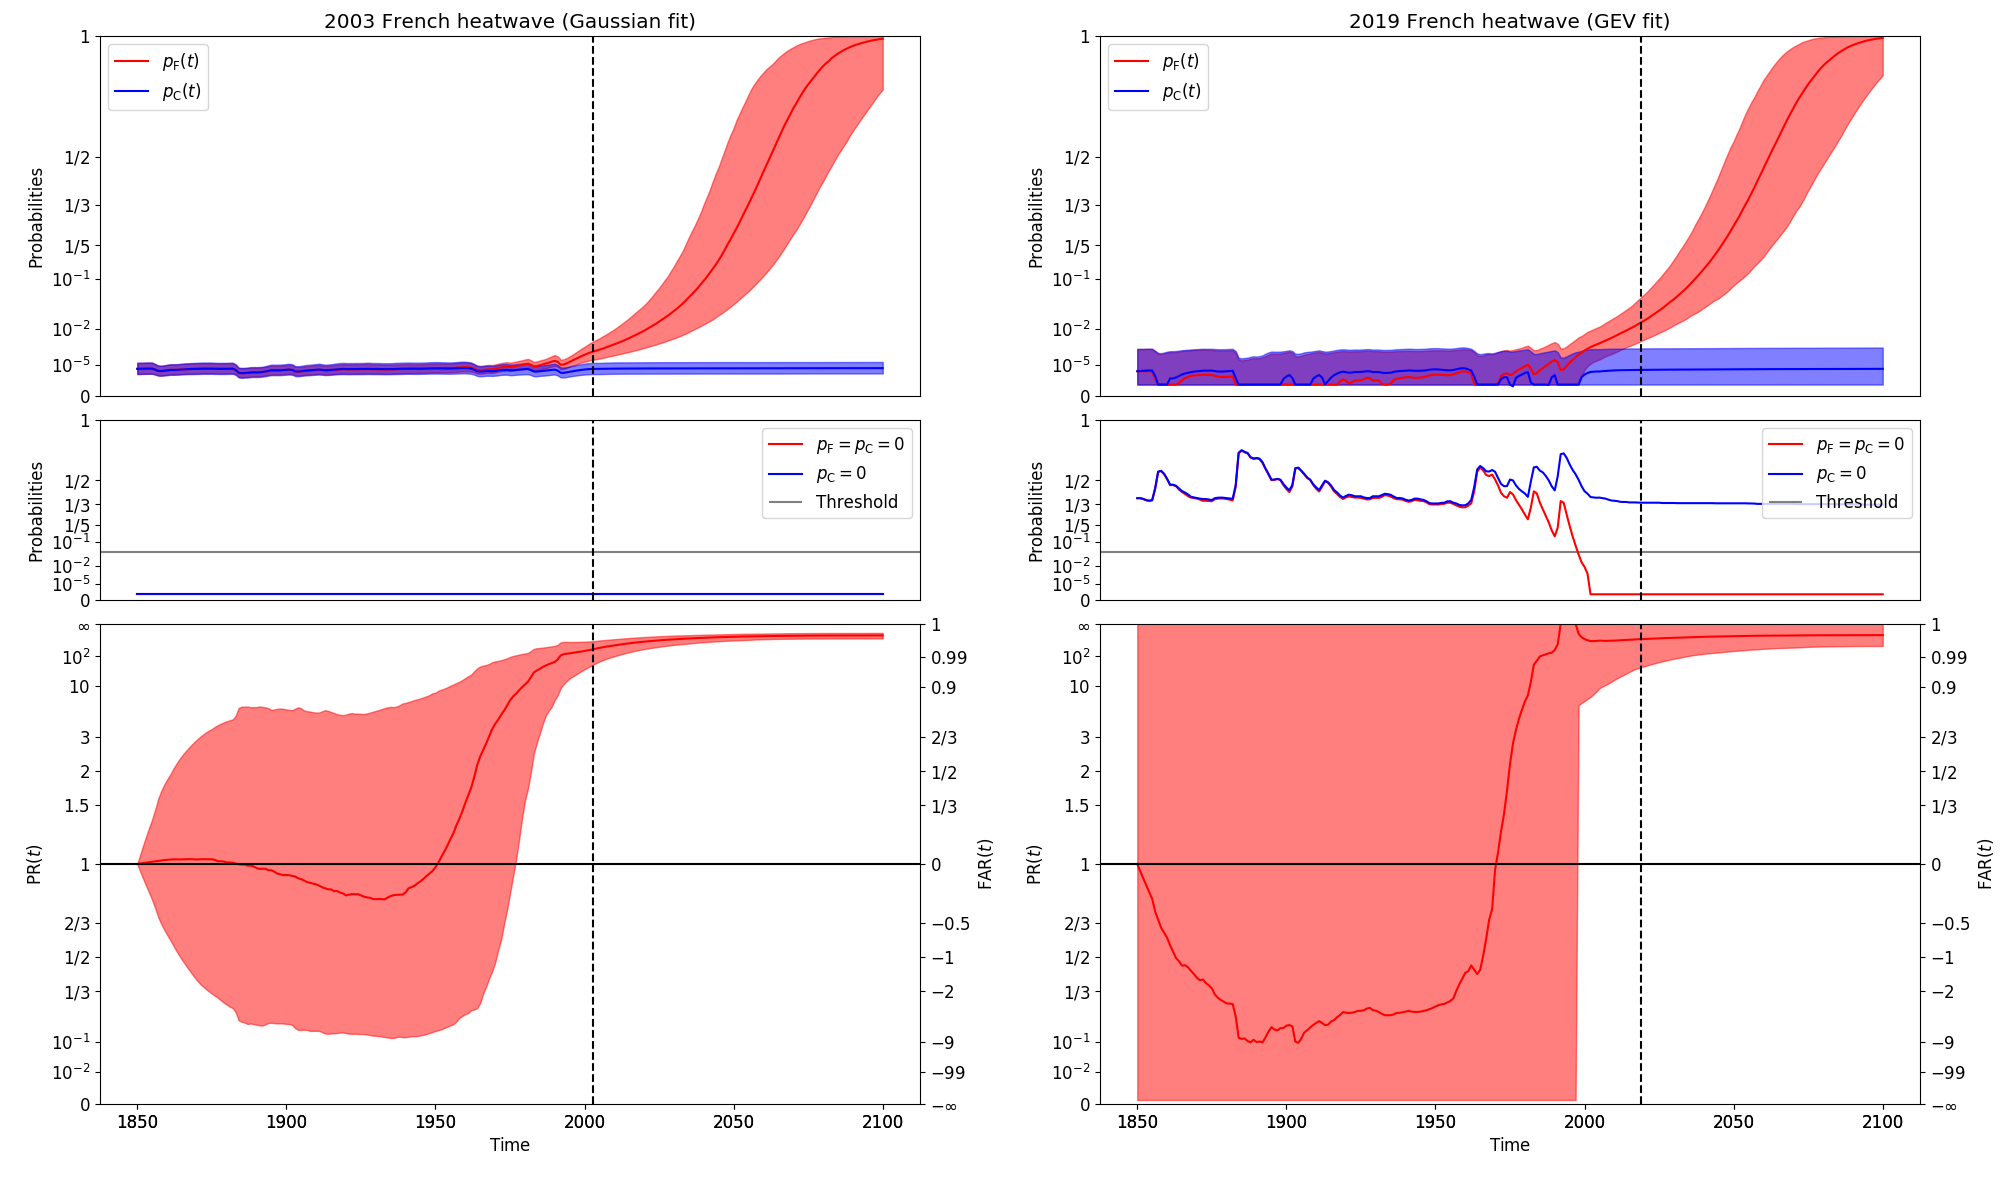
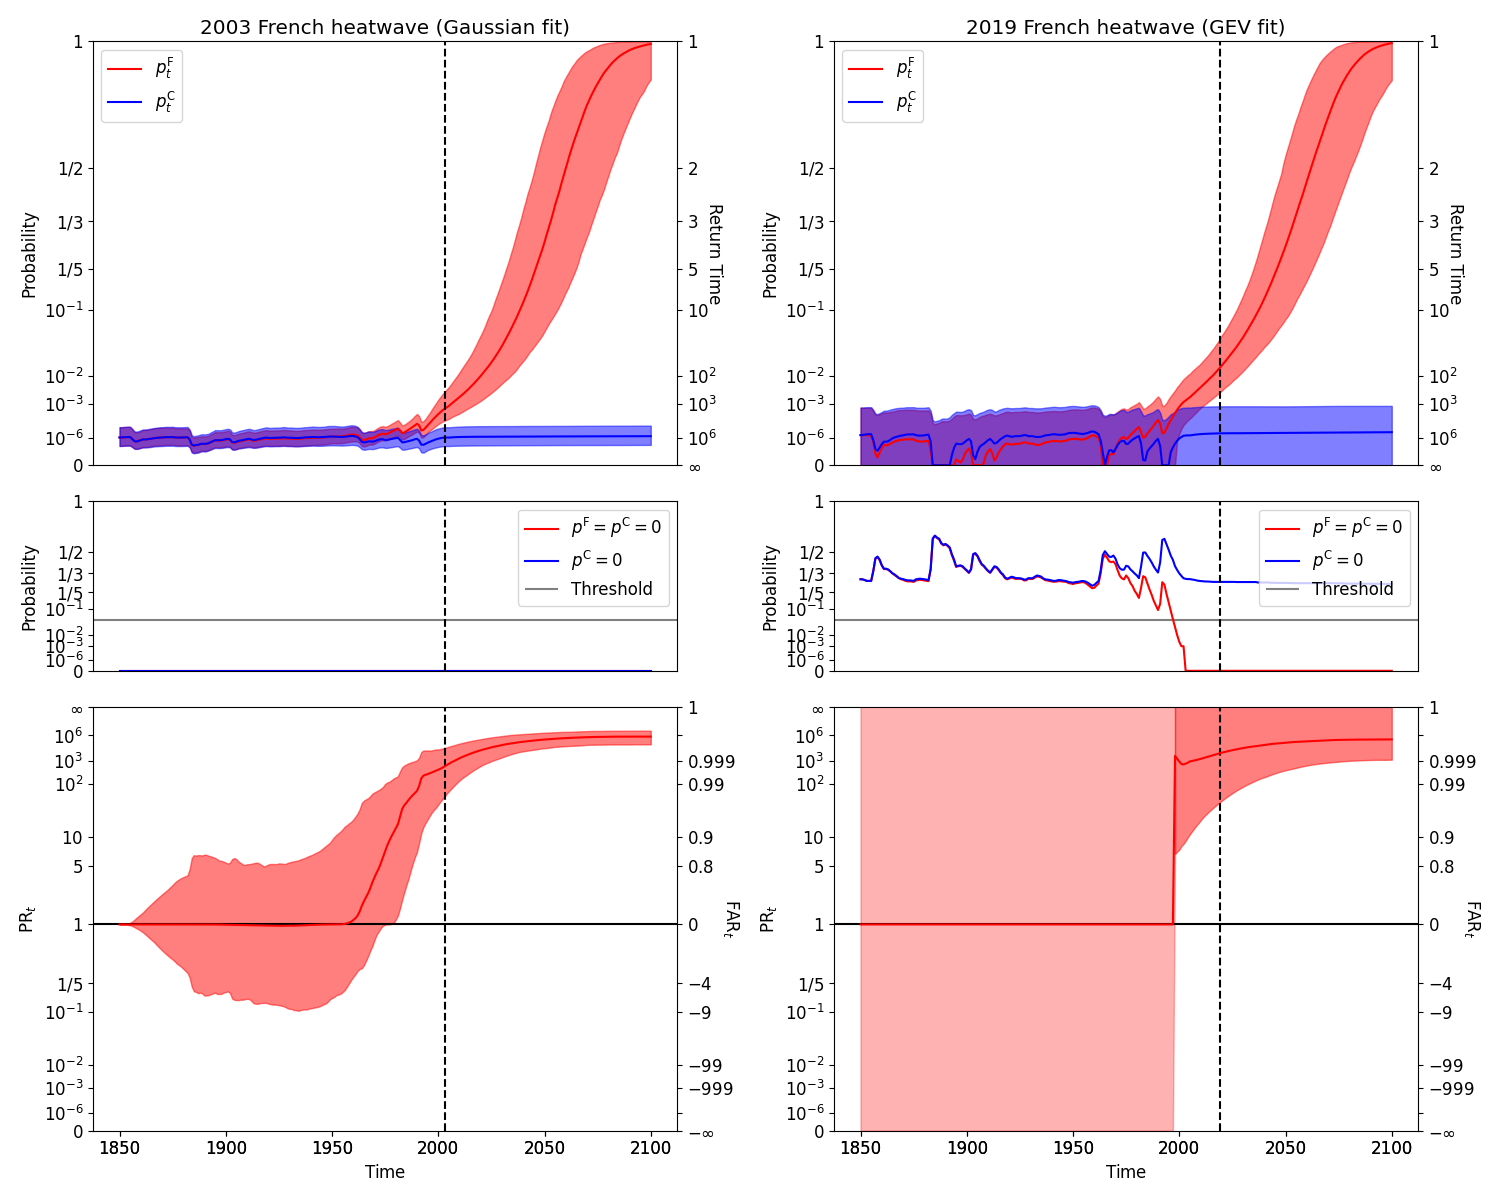
Update figures

diff --git a/figures/Probabilities.py b/figures/Probabilities.py
@@ -93,17 +93,15 @@ import sys,os
 import pickle as pk
 import matplotlib as mpl
 import matplotlib.pyplot as plt
+import matplotlib.gridspec as mplgrid
 
 import numpy as np
 import pandas as pd
 import xarray as xr
 
-import SDFC.tools as sdt
 import NSSEA as ns
 import NSSEA.models as nsm
-from NSSEA.plot.__linkParams import LinkParams
-
-mpl.use("Qt5Agg")
+import NSSEA.plot as nsp
 
 
 ####################
@@ -122,6 +120,28 @@ mpl.rcParams['font.size'] = 12
 ####################
 ## Plot functions ##
 ####################
+
+def split_into_valid_time( nan_values , ci ):##{{{
+	time_valid    = []
+	time_notvalid = []
+	t = int(nan_values.time[0])
+	on_valid      = bool(nan_values.loc[t] < ci)
+	curr = [t]
+	
+	for t in nan_values.time[1:]:
+		curr.append(int(t))
+		is_valid = bool(nan_values.loc[t] < ci)
+		if not is_valid == on_valid:
+			if on_valid: time_valid.append(curr)
+			else: time_notvalid.append(curr)
+			on_valid = not on_valid
+			curr = [int(t)]
+	if on_valid: time_valid.append(curr)
+	else: time_notvalid.append(curr)
+	
+	return time_valid,time_notvalid
+##}}}
+
 
 #############
 ## Classes ##
@@ -148,32 +168,25 @@ if __name__ == "__main__":
 	
 	## Load output
 	##============
-	climN,eventN = ns.from_netcdf( os.path.join( pathInp , "Normal" , "HW03_Normal_climCXCB.nc"   ) , nsm.Normal() )
-	climG,eventG = ns.from_netcdf( os.path.join( pathInp , "GEV"    , "HW19D3_GEV_climCXCB.nc"   ) , nsm.GEV() )
+	climN = ns.Climatology.from_netcdf( os.path.join( pathInp , "Normal" , "HW03_climCXCB.nc" ) , nsm.Normal() )
+	climG = ns.Climatology.from_netcdf( os.path.join( pathInp , "GEV"    , "HW19_climCXCB.nc" ) , nsm.GEV() )
 	
 	
 	## Plot itself
 	##============
 	
-	lp = LinkParams()
 	
-	nrow,ncol = 3,1
-	fs = 10
-	fig = plt.figure( figsize = ( 2 * fs * ncol , 0.4 * fs * nrow ) )
-	
-	axes = [ [ [0.05,0.67,0.41,0.3],
-	           [0.05,0.50,0.41,0.15],
-               [0.05,0.08,0.41,0.4] ],
-	         [ [0.55,0.67,0.41,0.3],
-	           [0.55,0.50,0.41,0.15],
-               [0.55,0.08,0.41,0.4] ]
-            ]
+	fs,nrow,ncol = 10,3,2
+	fig = plt.figure( figsize = ( fs * 1.5 , 0.4 * fs * nrow ) )
+	grid = mplgrid.GridSpec( nrows = nrow , ncols = ncol , height_ratios = [1,0.4,1] )
 	
 	title = ["2003 French heatwave (Gaussian fit)","2019 French heatwave (GEV fit)"]
+	lPR = nsp.LinkPR()
+	lp  = nsp.Linkp()
 	
-	for i,clim,event in zip(range(2),[climN,climG],[eventN,eventG]):
-		
-		stats  = clim.stats[:,:,:3,:]
+	for i,clim in zip(range(2),[climN,climG]):
+		stats = clim.statistics
+		event = clim.event
 		
 		## Find impossible values
 		##=======================
@@ -181,76 +194,96 @@ if __name__ == "__main__":
 		nan_values = nan_idx.sum( dim = "sample" ) / ( stats.sample.size - 1 )
 		imp_values = ( stats[:,1:,:,:].loc[:,:,"pC",:] == 0 ).sum( dim = "sample" ) / ( stats.sample.size - 1 )
 		
-		
 		## Find quantiles
 		##===============
-		qstats = stats[:,1:,:,:].quantile( [ci / 2 , 1 - ci / 2 , 0.4999 ] , dim = "sample" ).assign_coords( quantile = [ "ql" , "qu" , "be" ] )
-		if not be_is_median: qstats.loc["be",:,:,:] = stats[:,0,:,:]
+		qstats = stats[:,1:,:,:].quantile( [ci / 2 , 1 - ci / 2 , 0.5 ] , dim = "sample" ).assign_coords( quantile = [ "ql" , "qu" , "BE" ] )
+		if not clim.BE_is_median:
+			qstats.loc["BE",:,:,:] = stats[:,0,:,:]
 		
 		## Special case : PR
 		##==================
 		qstats.loc["qu",:,"PR",:] = qstats.loc["qu",:,"PR",:].where( nan_values < ci , np.inf )
 		qstats.loc["ql",:,"PR",:] = qstats.loc["ql",:,"PR",:].where( nan_values < ci , 0      )
+		if clim.BE_is_median:
+			qstats.loc["BE",:,"PR",:] = qstats.loc["BE",:,"PR",:].where( nan_values < ci , 1 )
 		
-		## Plot itself
-		##============
+		## Split into continuous time period
+		##==================================
+		time_validity = {}
+		for m in clim.model:
+			time_validity[m] = split_into_valid_time( nan_values.loc[:,m] , ci )
 		
+		time_valid,time_notvalid = time_validity[m]
 		
-		m = "multi"
-		ax = fig.add_axes( axes[i][0] )
-		ax.plot( stats.time , lp.fp(qstats.loc["be",:,"pF",m]) , color = "red"  , linestyle = "-" , marker = "" , label = r"$p_\mathrm{F}(t)$" )
-		ax.plot( stats.time , lp.fp(qstats.loc["be",:,"pC",m]) , color = "blue" , linestyle = "-" , marker = "" , label = r"$p_\mathrm{C}(t)$" )
-		ax.fill_between( stats.time , lp.fp(qstats.loc["ql",:,"pF",m]) , lp.fp(qstats.loc["qu",:,"pF",m]) , color = "red" , alpha = 0.5 )
-		ax.fill_between( stats.time , lp.fp(qstats.loc["ql",:,"pC",m]) , lp.fp(qstats.loc["qu",:,"pC",m]) , color = "blue" , alpha = 0.5 )
+		ax = fig.add_subplot(grid[0,i])
+		ax.plot( stats.time , lp.transform(qstats.loc["BE",:,"pF",m]) , color = "red"  , linestyle = "-" , marker = "" , label = r"$p^\mathrm{F}_t$" )
+		ax.plot( stats.time , lp.transform(qstats.loc["BE",:,"pC",m]) , color = "blue" , linestyle = "-" , marker = "" , label = r"$p^\mathrm{C}_t$" )
+		ax.fill_between( stats.time , lp.transform(qstats.loc["ql",:,"pF",m]) , lp.transform(qstats.loc["qu",:,"pF",m]) , color = "red"  , alpha = 0.5 )
+		ax.fill_between( stats.time , lp.transform(qstats.loc["ql",:,"pC",m]) , lp.transform(qstats.loc["qu",:,"pC",m]) , color = "blue" , alpha = 0.5 )
 		ax.legend( loc = "upper left" )
-		ax.set_ylim( (lp.p.values.min(),lp.p.values.max()) )
-		ax.set_yticks( lp.p.values )
-		ax.set_yticklabels( lp.p.names )
-		ax.set_title( title[i] )
+		ax.set_ylim( (lp.min,lp.max) )
+		ax.set_yticks( lp.ticks )
+		ax.set_yticklabels( lp.labels )
+		ax.set_title( title[i]  )
 		ax.set_xticks([])
-		ax.set_ylabel( "Probabilities" )
+		ax.set_ylabel( "Probability" )
+		
+		ax2 = fig.add_subplot( grid[0,i] , sharex = ax , frameon = False )
+		ax2.yaxis.tick_right()
+		ax2.set_yticks( lp.ticks )
+		ax2.set_yticklabels( lp.Rtlabels )
+		ax2.yaxis.set_label_position( "right" )
+		ax2.set_ylabel( "Return Time" , rotation = 270 )
+		ax2.set_ylim( (lp.min,lp.max) )
+		
 		xlim = ax.get_xlim()
 		ylim = ax.get_ylim()
 		ax.plot( [event.time,event.time] , ylim          , linestyle = "--" , marker = "" , color = "black" )
 		ax.set_xlim(xlim)
 		ax.set_ylim(ylim)
 		
-		ax = fig.add_axes( axes[i][1] )
-		ax.plot( stats.time , lp.fp(nan_values.loc[:,m]) , color = "red"  , label = r"$p_\mathrm{F}=p_\mathrm{C}=0$" )
-		ax.plot( stats.time , lp.fp(imp_values.loc[:,m]) , color = "blue" , label = r"$p_\mathrm{C}=0$" )
+		ax = fig.add_subplot(grid[1,i])
+		ax.plot( stats.time , lp.transform(nan_values.loc[:,m]) , color = "red"  , label = r"$p^\mathrm{F}=p^\mathrm{C}=0$" )
+		ax.plot( stats.time , lp.transform(imp_values.loc[:,m]) , color = "blue" , label = r"$p^\mathrm{C}=0$" )
 		ax.plot( [event.time,event.time] , ylim          , linestyle = "--" , marker = "" , color = "black" )
-		ax.set_ylim( (lp.p.values.min(),lp.p.values.max()) )
-		ax.set_yticks( lp.p.values )
-		ax.set_yticklabels( lp.p.names )
-		ax.set_ylabel( "Probabilities" )
+		ax.set_ylim( (lp.min,lp.max) )
+		ax.set_yticks( lp.ticks )
+		ax.set_yticklabels( lp.labels )
+		ax.set_ylabel( "Probability" )
 		xlim = ax.get_xlim()
-		ax.hlines( lp.fp(ci) , xlim[0] , xlim[1] , color = "grey" , label = "Threshold" )
+		ax.hlines( lp.transform(ci) , xlim[0] , xlim[1] , color = "grey" , label = "Threshold" )
 		ax.set_xlim(xlim)
 		ax.set_xticks([])
 		ax.legend( loc = "upper right" )
 		
-		ax = fig.add_axes( axes[i][2] )
-		ax.plot( stats.time , lp.frr(qstats.loc["be",:,"PR",m]) , color = "red" , linestyle = "-" , marker = "" )
-		ax.fill_between( stats.time , lp.frr(qstats.loc["ql",:,"PR",m]) , lp.frr(qstats.loc["qu",:,"PR",m]) , color = "red" , alpha = 0.5 )
-		ax.set_ylim( (lp.rr.values.min(),lp.rr.values.max()) )
-		ax.set_yticks( lp.rr.values )
-		ax.set_yticklabels( lp.rr.names )
+		ax = fig.add_subplot(grid[2,i])
+		ax.plot( stats.time , lPR.transform(qstats.loc["BE",:,"PR",m]) , color = "red" , linestyle = "-" , marker = "" )
+		for t in time_valid:
+			ax.fill_between( t , lPR.transform(qstats.loc["ql",t,"PR",m]) , lPR.transform(qstats.loc["qu",t,"PR",m]) , color = "red" , alpha = 0.5 )
+		for t in time_notvalid:
+			ax.fill_between( t , lPR.transform(qstats.loc["ql",t,"PR",m]) , lPR.transform(qstats.loc["qu",t,"PR",m]) , color = "red" , alpha = 0.3 )
+		ax.set_ylim( (lPR.min,lPR.max) )
+		ax.set_yticks( lPR.ticks )
+		ax.set_yticklabels( lPR.labels )
 		ax.set_xlabel( r"$\mathrm{Time}$" )
-		ax.set_ylabel( r"$\mathrm{PR}(t)$" )
-		ax2 = fig.add_axes( axes[i][2] , sharex = ax , frameon = False )
+		ax.set_ylabel( r"$\mathrm{PR}_t$" )
+		ax2 = fig.add_subplot( grid[2,i] , sharex = ax , frameon = False )
 		ax2.yaxis.tick_right()
-		ax2.set_yticks( lp.rr.values )
-		ax2.set_yticklabels( lp.far.names )
+		ax2.set_yticks( lPR.ticks )
+		ax2.set_yticklabels( lPR.FARlabels )
 		ax2.yaxis.set_label_position( "right" )
-		ax2.set_ylabel( r"$\mathrm{FAR}(t)$" )
+		ax2.set_ylabel( r"$\mathrm{FAR}_t$" , rotation = 270 )
 		
 		xlim = ax.get_xlim()
 		ylim = ax.get_ylim()
-		ax.plot( xlim                    , lp.frr([1,1]) , linestyle = "-"  , marker = "" , color = "black" )
-		ax.plot( [event.time,event.time] , ylim          , linestyle = "--" , marker = "" , color = "black" )
+		ax.hlines( lPR.transform(1) , xlim[0] , xlim[1] , linestyle = "-"  , color = "black" )
+		ax.vlines( event.time       , ylim[0] , ylim[1] , linestyle = "--" , color = "black" )
 		ax.set_xlim(xlim)
 		ax.set_ylim(ylim)
+		
+		
 	
+	plt.tight_layout()
 	plt.savefig( os.path.join( pathOut , "Probabilities.png" ) )
 	
 	

diff --git a/figures/Intensities.py b/figures/Intensities.py
@@ -90,7 +90,6 @@
 ###############
 
 import sys,os
-import pickle as pk
 import matplotlib as mpl
 import matplotlib.pyplot as plt
 
@@ -98,12 +97,8 @@ import numpy as np
 import pandas as pd
 import xarray as xr
 
-import SDFC.tools as sdt
 import NSSEA as ns
 import NSSEA.models as nsm
-from NSSEA.plot.__linkParams import LinkParams
-
-mpl.use("Qt5Agg")
 
 
 ####################
@@ -148,64 +143,58 @@ if __name__ == "__main__":
 	
 	## Load output
 	##============
-	climN,eventN = ns.from_netcdf( os.path.join( pathInp , "Normal" , "HW03_Normal_climCXCB.nc"   ) , nsm.Normal() )
-	climG,eventG = ns.from_netcdf( os.path.join( pathInp , "GEV"    , "HW19D3_GEV_climCXCB.nc"   ) , nsm.GEV() )
+	climN = ns.Climatology.from_netcdf( os.path.join( pathInp , "Normal" , "HW03_climCXCB.nc" ) , nsm.Normal() )
+	climG = ns.Climatology.from_netcdf( os.path.join( pathInp , "GEV"    , "HW19_climCXCB.nc" ) , nsm.GEV() )
 	
 	
 	## Plot itself
 	##============
-	
-	lp = LinkParams()
-	
 	nrow,ncol = 3,2
 	fs = 10
 	fig = plt.figure( figsize = ( fs * 1.5 , 0.4 * fs * nrow ) )
 	
-	m = "multi"
+	m = "Multi_Synthesis"
 	title = ["2003 French heatwave (Gaussian fit)","2019 French heatwave (GEV fit)"]
-	yminI  = -1
-	ymaxI  = 15
+	ylimI  = [(-1,17),(22,40)]
 	ymindI = -1
 	ymaxdI = 15
+	units = [r"(\mathrm{K},\ 61/90\ \mathrm{anomaly})","(°C)"]
 	
 	axes = [ [1,3,5] , [2,4,6] ]
 	
-	for i,clim,event in zip(range(2),[climN,climG],[eventN,eventG]):
+	for i,clim in zip(range(2),[climN,climG]):
 		
-		ylabel = "\mathrm{(" + event.unit_variable + ")}"
-		stats  = clim.stats
-		statsl = stats[:,1:,3:,:].quantile( ci / 2.      , dim = "sample" )
-		statsu = stats[:,1:,3:,:].quantile( 1. - ci / 2. , dim = "sample" )
+		event  = clim.event
+		ylabel = "\mathrm{(" + event.unit + ")}"
+		stats  = clim.statistics
+		statsl = stats[:,1:,[2,3,5],:].quantile( ci / 2.      , dim = "sample" )
+		statsu = stats[:,1:,[2,3,5],:].quantile( 1. - ci / 2. , dim = "sample" )
 		
 		ax = fig.add_subplot( nrow , ncol , axes[i][0] )
-		ax.plot( stats.time , stats.loc[:,"be","IF",m] , color = "red" , linestyle = "-" , marker = "" )
+		ax.plot( stats.time , stats.loc[:,"BE","IF",m] , color = "red" , linestyle = "-" , marker = "" )
 		ax.fill_between( stats.time , statsl.loc[:,"IF",m] , statsu.loc[:,"IF",m] , color = "red" , alpha = 0.5 )
 		ax.set_title( title[i] )
-		ax.set_ylim( (yminI,ymaxI) )
 		ax.set_xticks([])
-		ax.set_ylabel( r"${}$".format( "\mathbf{I}_F(t)\ " + ylabel ) )
+		ax.set_ylabel( r"${}$".format( "\mathbf{I}_F(t)\ " + units[i] ) )
 		xlim = ax.get_xlim()
-		ylim = ax.get_ylim()
-		ax.plot( [event.time,event.time] , ylim          , linestyle = "--" , marker = "" , color = "black" )
-		ax.hlines( stats.loc[event.time,"be","IF",m] , xlim[0] , xlim[1] , color = "black" , linestyle = "--" )
+		ax.plot( [event.time,event.time] , ylimI[i]       , linestyle = "--" , marker = "" , color = "black" )
+		ax.hlines( stats.loc[event.time,"BE","IF",m] , xlim[0] , xlim[1] , color = "black" , linestyle = "--" )
 		ax.set_xlim(xlim)
-		ax.set_ylim(ylim)
+		ax.set_ylim( ylimI[i] )
 		
 		ax = fig.add_subplot( nrow , ncol , axes[i][1] )
-		ax.plot( stats.time , stats.loc[:,"be","IC",m] , color = "red" , linestyle = "-" , marker = "" )
+		ax.plot( stats.time , stats.loc[:,"BE","IC",m] , color = "red" , linestyle = "-" , marker = "" )
 		ax.fill_between( stats.time , statsl.loc[:,"IC",m] , statsu.loc[:,"IC",m] , color = "red" , alpha = 0.5 )
-		ax.set_ylim( (yminI,ymaxI) )
 		ax.set_xticks([])
-		ax.set_ylabel( r"${}$".format( "\mathbf{I}_C(t)\ " + ylabel ) )
+		ax.set_ylabel( r"${}$".format( "\mathbf{I}_C(t)\ " + units[i] ) )
 		xlim = ax.get_xlim()
-		ylim = ax.get_ylim()
-		ax.plot( [event.time,event.time] , ylim          , linestyle = "--" , marker = "" , color = "black" )
-		ax.hlines( stats.loc[event.time,"be","IC",m] , xlim[0] , xlim[-1] , color = "black" , linestyle = "--" )
+		ax.plot( [event.time,event.time] , ylimI[i]       , linestyle = "--" , marker = "" , color = "black" )
+		ax.hlines( stats.loc[event.time,"BE","IC",m] , xlim[0] , xlim[-1] , color = "black" , linestyle = "--" )
 		ax.set_xlim(xlim)
-		ax.set_ylim(ylim)
+		ax.set_ylim(ylimI[i])
 		
 		ax = fig.add_subplot( nrow , ncol , axes[i][2] )
-		ax.plot( stats.time , stats.loc[:,"be","dI",m] , color = "red" , linestyle = "-" , marker = "" )
+		ax.plot( stats.time , stats.loc[:,"BE","dI",m] , color = "red" , linestyle = "-" , marker = "" )
 		ax.fill_between( stats.time , statsl.loc[:,"dI",m] , statsu.loc[:,"dI",m] , color = "red" , alpha = 0.5 )
 		ax.set_ylim( (ymindI,ymaxdI) )
 		ax.set_xlabel( "Time" )
@@ -214,7 +203,7 @@ if __name__ == "__main__":
 		ylim = ax.get_ylim()
 		ax.plot( [event.time,event.time] , ylim  , linestyle = "--" , marker = "" , color = "black" )
 		ax.plot( xlim                    , [0,0] , linestyle = "-"  , marker = "" , color = "black" )
-		ax.hlines( stats.loc[event.time,"be","dI",m] , xlim[0] , xlim[-1] , color = "black" , linestyle = "--" )
+		ax.hlines( stats.loc[event.time,"BE","dI",m] , xlim[0] , xlim[-1] , color = "black" , linestyle = "--" )
 		ax.set_xlim(xlim)
 		ax.set_ylim(ylim)
 	
